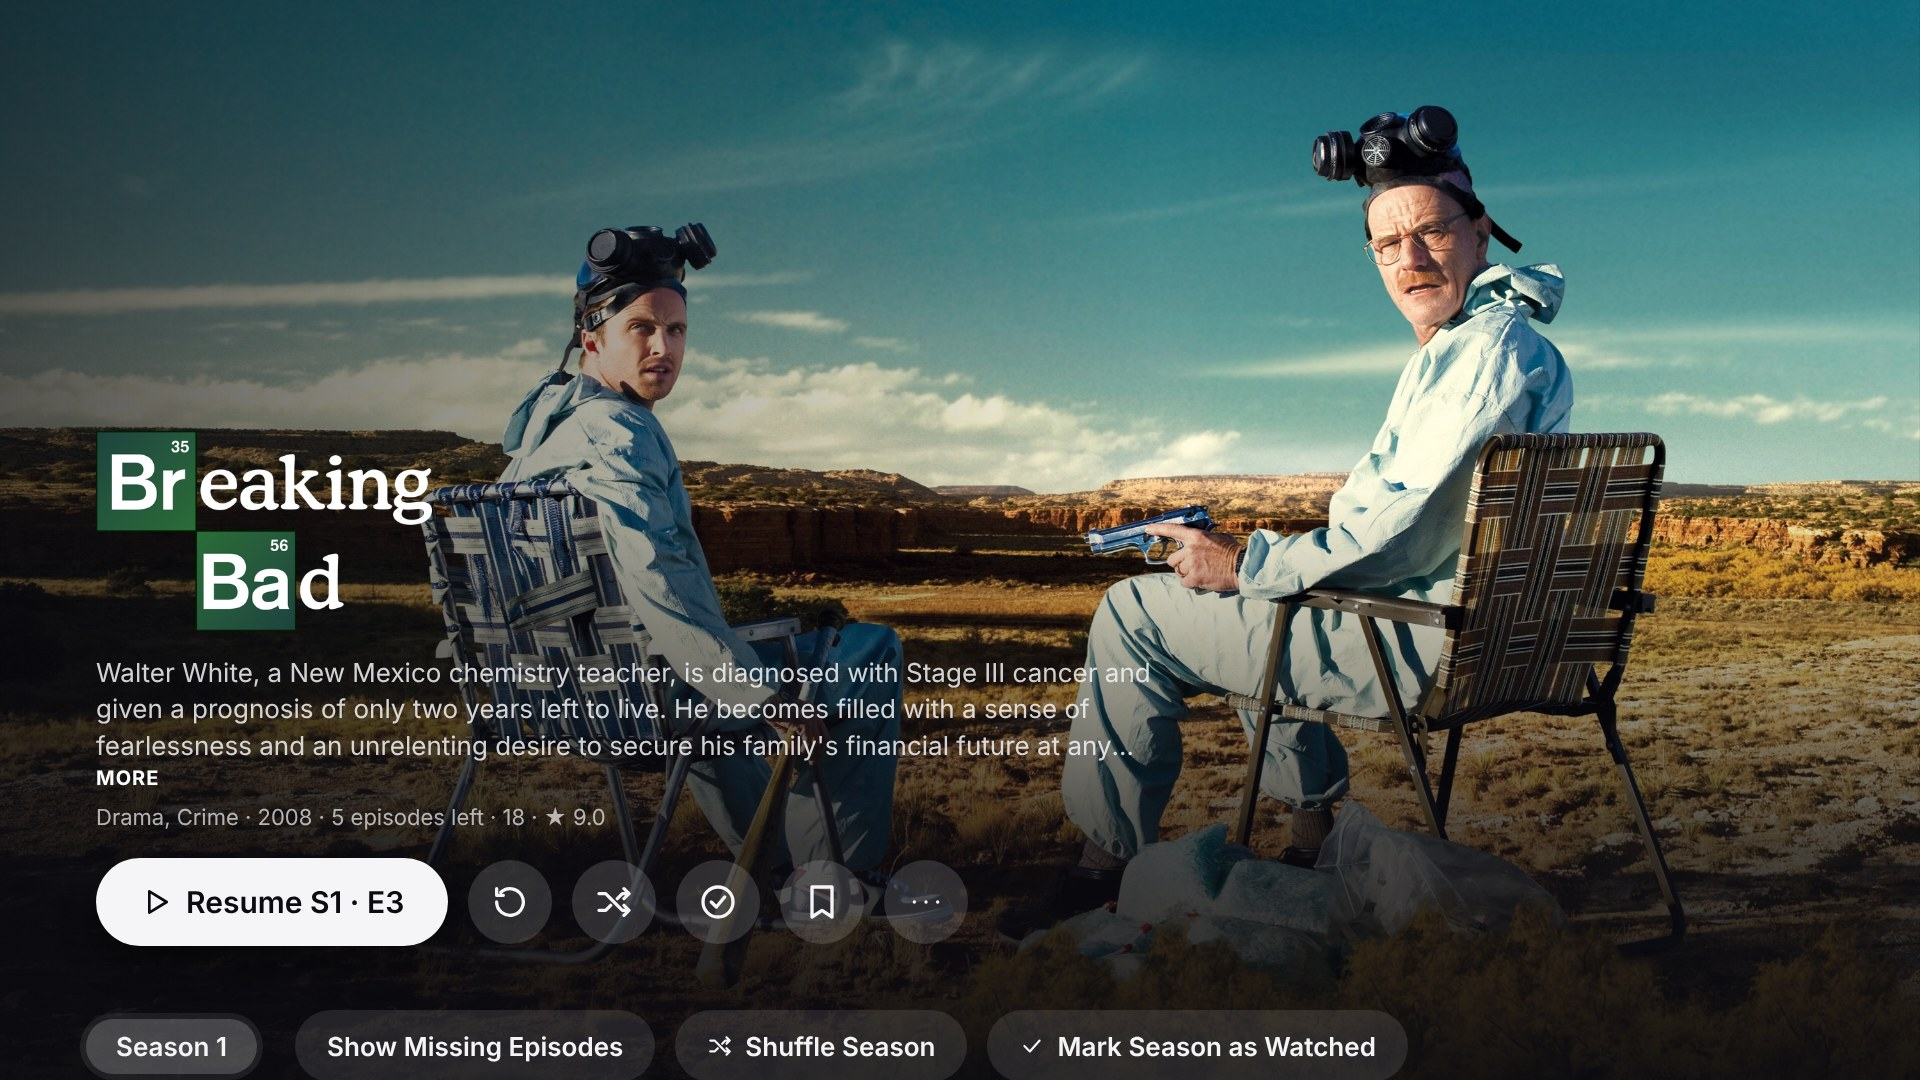
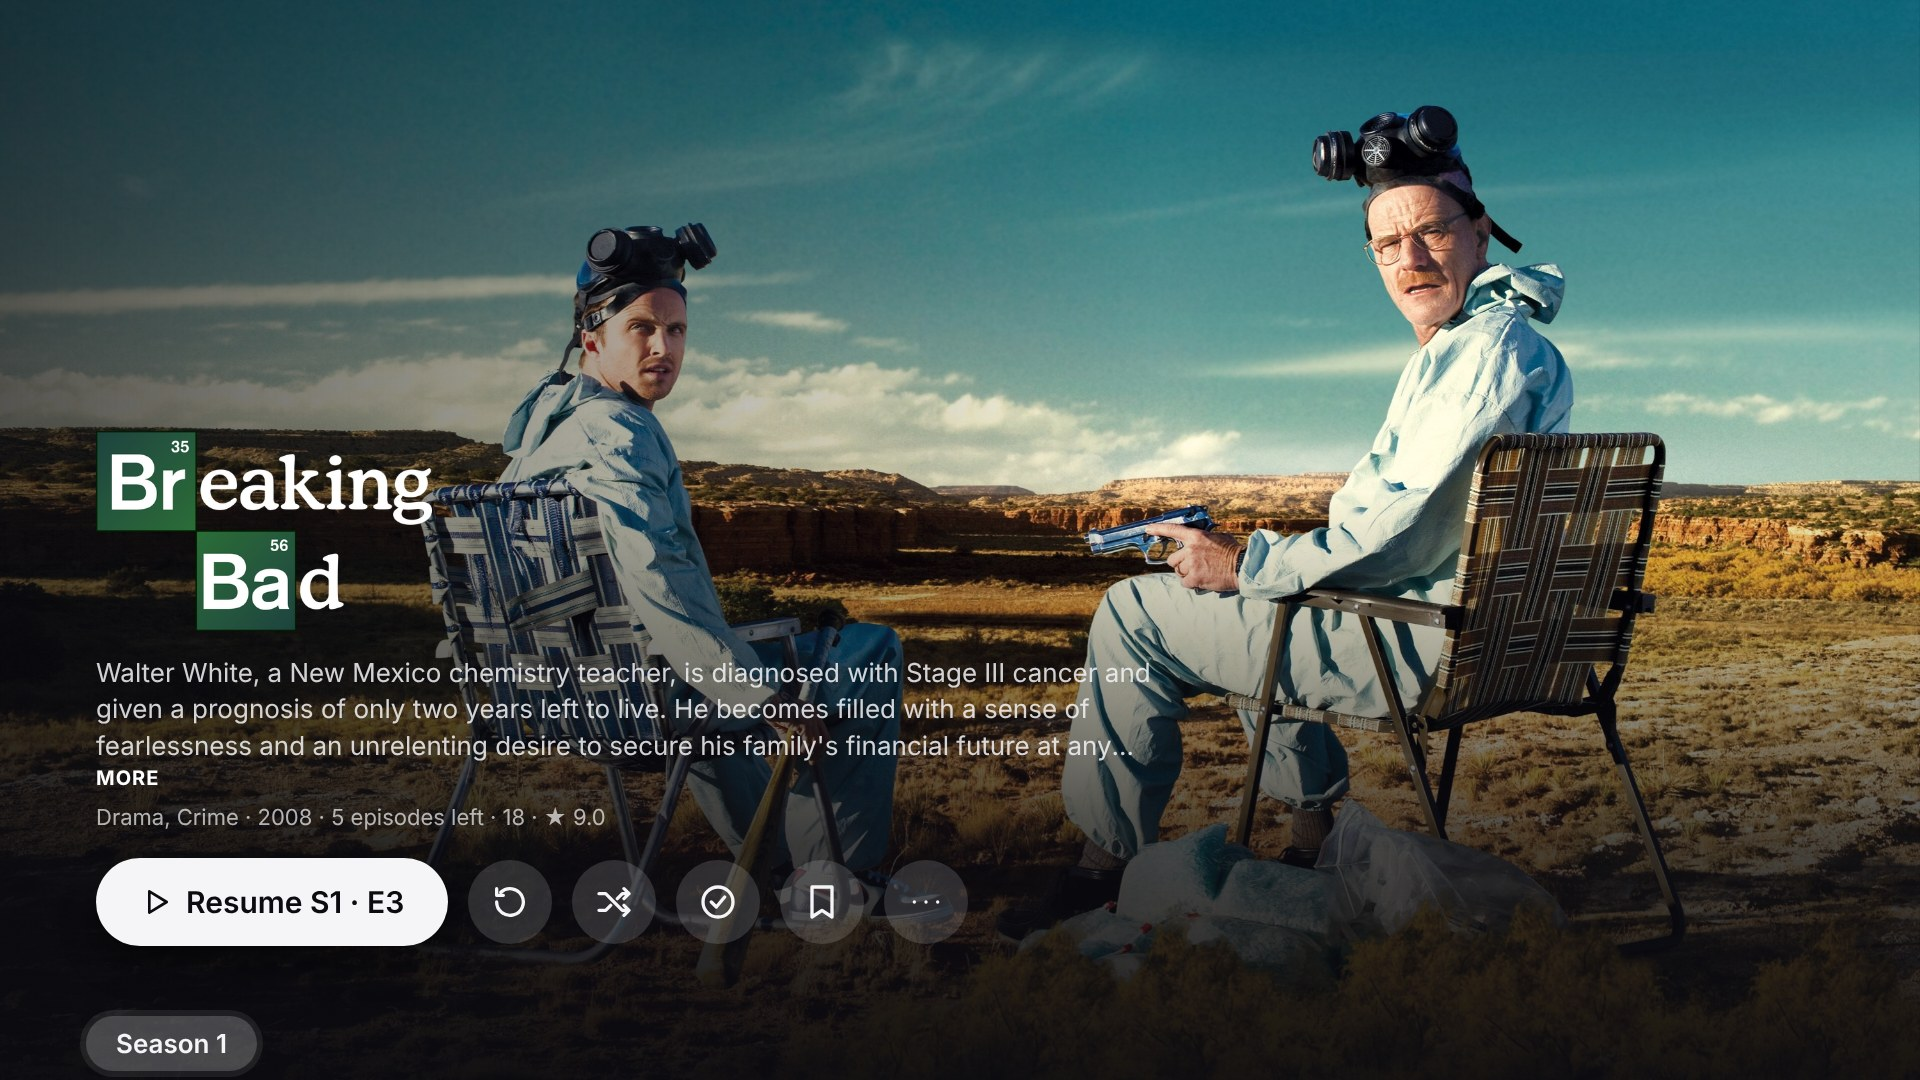
Retake the README's Breaking Bad picture without the season buttons

Changed region(s): [[0.1562, 0.9167, 0.75, 1.0], [0.0625, 0.9472, 0.125, 1.0]]

diff --git a/docs/changes/2026-11-20-season-menu.md b/docs/changes/2026-11-20-season-menu.md
@@ -39,6 +39,9 @@ remote's keys (not a TV):
 - [missing-episodes.jpg](2026-11-20-season-menu/missing-episodes.jpg): Season 2's episodes, Not on
   disk, after a reload with the setting on.
 
+- README's [show.jpg](../screenshots/show.jpg) retaken: Breaking Bad's page, framed as before,
+  without the buttons beside Season 1.
+
 ## Checks
 
 - `npm run check`: passed (types, Watch Together 25, Subtitle Timing 7, both TV builds, old-TV
@@ -52,7 +55,6 @@ remote's keys (not a TV):
 
 ## Limits
 
-- The README's Breaking Bad picture still shows the old buttons; it needs retaking.
 - Nothing tried on a real LG or Samsung TV.
 
 ## Logging

diff --git a/README.md b/README.md
@@ -40,7 +40,7 @@ video, so files your TV can handle play as they are.
 <table>
   <tr>
     <td width="50%"><img src="docs/screenshots/film.jpg" alt="Dune: Part Two's page, with Resume from where you stopped"></td>
-    <td width="50%"><img src="docs/screenshots/show.jpg" alt="Breaking Bad's page, with Resume S1 · E3 and the season's actions"></td>
+    <td width="50%"><img src="docs/screenshots/show.jpg" alt="Breaking Bad's page, with Resume S1 · E3 and the Season 1 tab"></td>
   </tr>
   <tr>
     <td width="50%"><img src="docs/screenshots/library.jpg" alt="Browsing Movies, with Sort, Filters and the A–Z bar"></td>
